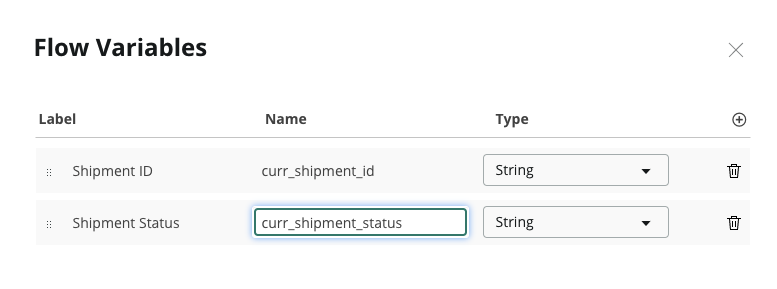
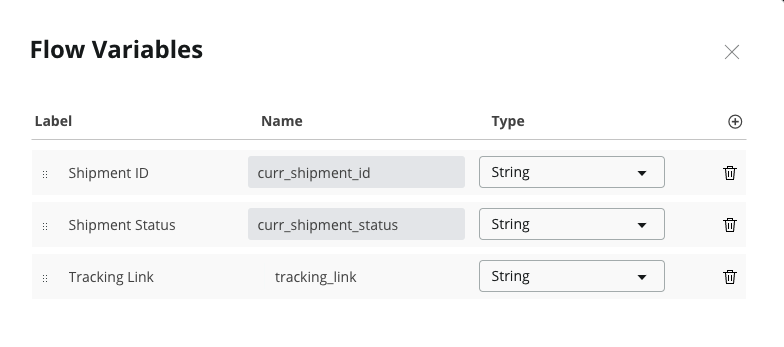
Create get shipment flow

diff --git a/README.md b/README.md
@@ -722,14 +722,15 @@ To launch the flow designer, navigate to **Flow Designer > Designer**
 
   * **Name:** YED Get Shipment
   * **Application:** Yubico Enterprise Delivery API Spoke
-  * **Description:** Get information about a specific shipment
+  * **Description:** Get information about a specific shipment  
+  ![](/images/117-action-properties.png)  
 
-  ![](/images/117-action-properties.png)
-3. Click the **Submit** button and you will be taken to the new/empty Action
+3. Click the **Submit** button and you will be taken to the new/empty Action  
+
 
 ### Add the shipment request inputs
 1. Click the **Inputs** section at the top of the **Action Outline**
-2. Click the **Create Input** button and add the following based on the create shipment request object ([POST /shipments_exact](https://console.dev.in.yubico.org/apidocs/#operation/CreateShipmentExact))
+2. Click the **Create Input** button and add the following based on the create shipment request object ([GET /shipments_exact](https://console.dev.in.yubico.org/apidocs/#operation/CreateShipmentExact))
 
   | **Label** | **Type** | **Mandatory** |
   | --------- | -------- | ------------- |
@@ -756,7 +757,7 @@ To launch the flow designer, navigate to **Flow Designer > Designer**
   | Accept | application/json |
   | Content-Type | application/json |
 
-  ![](/images/27-rest-connection-headers.png)
+  ![](/images/122-rest-connection-headers.png)
 
 ### Configure the Output Script
 1. Add a new Action Step after the REST step. 
@@ -836,8 +837,7 @@ To launch the flow designer, navigate to **Flow Designer > Designer**
   ![](/images/35-test.png)
 4. Wait for the processing to complete and click **Your test has finished running. View the action execution details.**
   ![](/images/36-test-finished.png)
-5. In the **Output Data** verify the **Shipment Message** is equal to "Awaiting Validation"
-  ![](/images/36-test-validate.png)
+5. In the **Output Data** verify the information is the same as found in the YED Console
 
 ### Save and Publish
 You've created your action - Be sure to **Save** the **Publish**
@@ -860,12 +860,14 @@ We will need to create new variables to persist some form of state that can be r
 
 1. Click the 3 dots **...** on the right side of the screen
 2. Click **Flow Variables**
-3. Click the + sign twice, you will need 2 variables
+3. Click the + sign twice, you will need 3 variables
 4. The variables should follow this format
   | **LABEL** | **NAME** | **TYPE** |
   | -------- | --------- | -------- |
   | Shipment ID | curr_shipment_id | String |
-  | Shipment Status | curr_shipment_status | String |  
+  | Shipment Status | curr_shipment_status | String | 
+  | Tracking Link | tracking_link | String | 
+
   ![](/images/115-create-flow-vars.png)
 5. Exit the pop-up
 6. Click **Add an Action, Flow Logic, or Subflow**
@@ -882,6 +884,63 @@ We will need to create new variables to persist some form of state that can be r
 11. Click Done
 
 ### Create the GET Shipment Loop
+We will now create the loop that will iterate until shipping information is available to send to the customer.
+
+1. Click **Add an Action, Flow Logic, or Subflow**
+2. Click **Flow Logic**, then select **Do the following until**  
+  ![](/images/123-flow-loop.png)
+3. You will need to set the condition that the loop will iterate until the Shipment Status changes to 103 ([defined in the API spec as Shipment Shipped](https://console.yubico.com/help/api-req.html#table-4))
+* Drag the flow variable **Shipment Status** pill to Condition 1
+* Leave the condition as **is**
+* Set the condition value as 103  
+  ![](/images/124-flow-condition.png)
+4. Click Done
+
+### Create the loop logic
+Now we will set what will be done in the loop, this will consist of two actions - Waiting X amount of time, then calling to the GET /shipments_exact API using the Action that was just created. 
+
+The reason why there is a delay in time before calling to the API is because a Shipment will not be immediately available once it is created
+
+1. Within the loop click **Add an Action, Flow Logic, or Subflow**
+2. Click **Flow Logic**, then select **Wait for a duration of time**
+3. Set the **Wait for** value to 24 hrs (or to whatever time fits your requirements)  
+  ![](/images/125-flow-wait.png)  
+4. Click done
+5. Within the loop click **Add an Action, Flow Logic, or Subflow**
+6. Click **Action**, then select **YED Get Shipment**
+7. Drag the flow variable pill **Shipment ID** into the Shipment ID field
+8. Click Done  
+  ![](/images/126-flow-request.png)
+7. Click **Add an Action, Flow Logic, or Subflow**
+8. Click Flow Logic, then select **Set Flow Variables**
+![](/images/113-set-flow-vars.png)
+9. Click the plus sign on the right **twice**, you will need two variables
+10. Create the first variable - This will be used to persist the Shipment ID
+* **Name:** tracking_link
+* **Data:** Drag the **Tracking Link** pill from 9 - YED Get Shipment  
+  ![](/images/127-set-track-link.png)
+11. Click Done
+
+### Create the email
+We will now create the template for the email that will be sent to the user with the tracking information
+
+1. Click **Action**. Click **ServiceNow Core**. Under **Default** click **Send Email**.
+2. Set **To** using the pill Trigger - Service Catalog > Requested Item Record > Requested For > Email
+3. Set **Subject** to "Your YubiKey has Shipped!"
+4. Set **Body** to 
+
+  ```
+  Your order has been shipped
+
+  You can track your shipment using this link
+
+  Thank you
+  ```
+5. Drag the **Shipment ID** data pill from the Flow Variable data pane next to the **Your order** text 
+6. Drag the **Tracking Link** data pill from the Flow Variable data pane next to the **link** text  
+    ![](/images/128-set-close-email.png)
+8. Click **Done**
+9. Click **Activate**
 
 
 ## References
